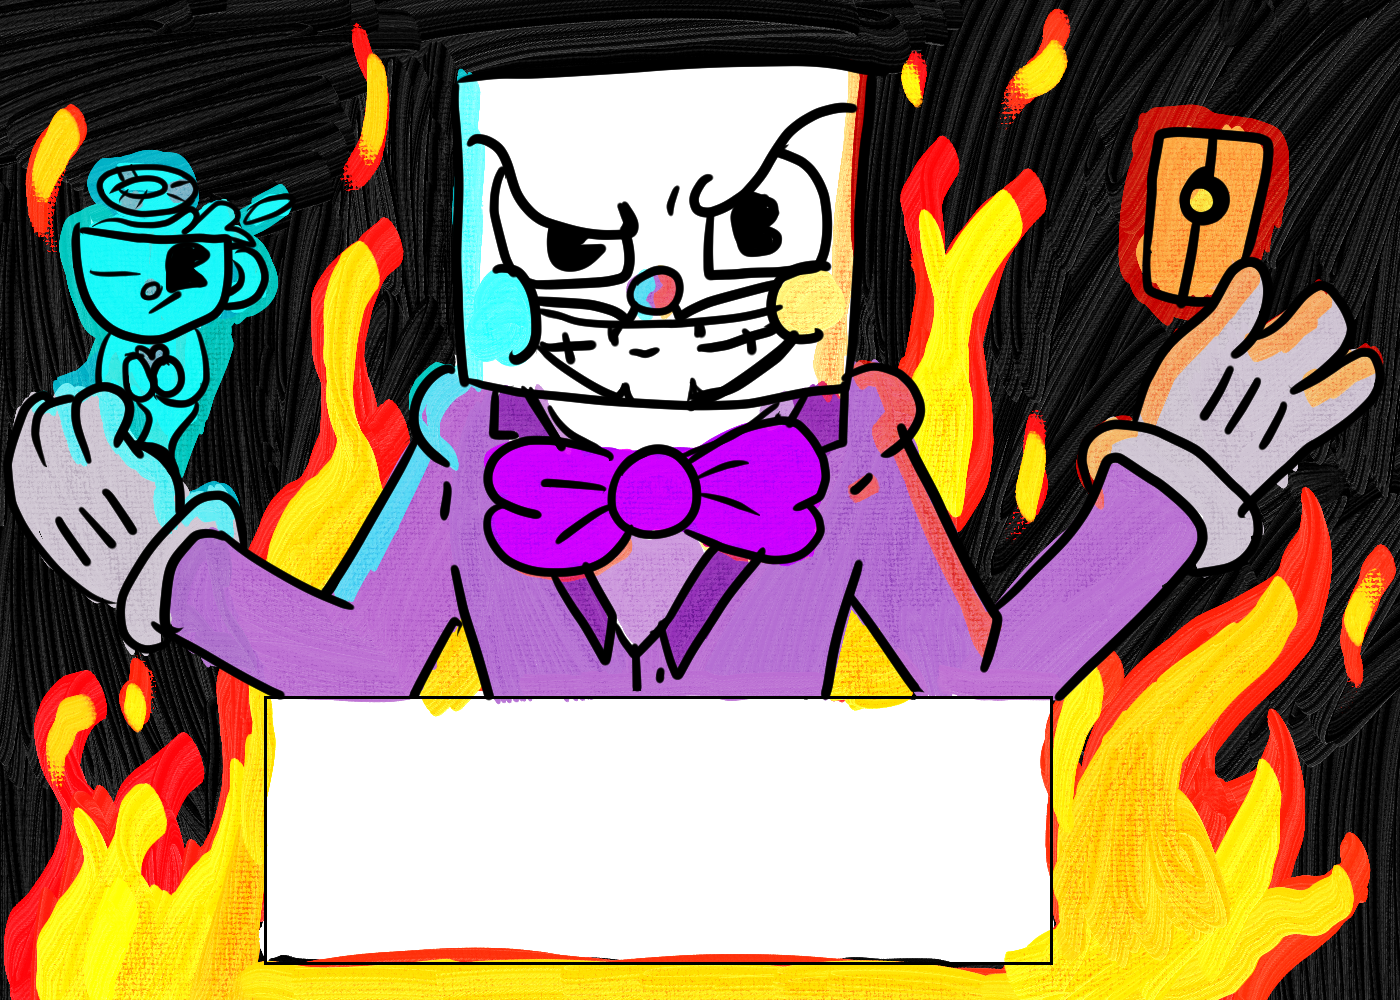
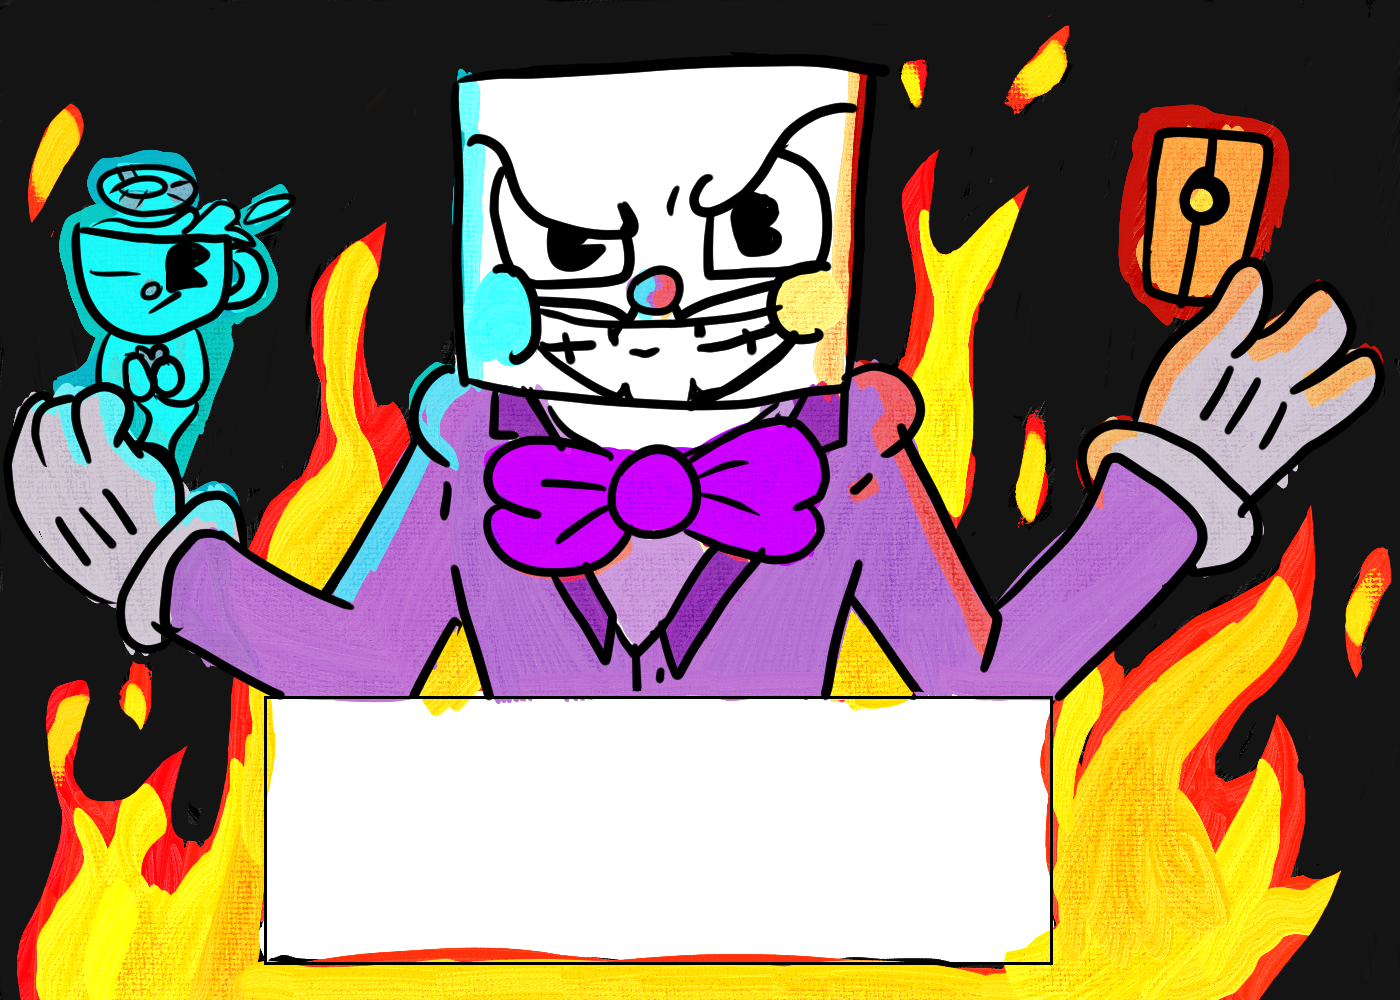
style: centered the background image

diff --git a/assets/css/style.css b/assets/css/style.css
@@ -29,8 +29,7 @@ a {
 }
 
 body {
-  height: 100vh;
-  background-image: url(../images/king-dice.png);
+  background-color: #141414;
 }
 
 header {
@@ -60,15 +59,20 @@ p {
 
 /* Game area styling */
 .game-wrapper {
+  background-color: #141414;
+  padding-top: 5%;
   display: flex;
   flex-flow: row nowrap;
   align-items: center;
+  width: 100vw;
+  height: 100vh;
+  background: url('../images/king-dice-large.webp') no-repeat center center;
 }
 
 #scores-area {
   width: 100%;
   position: absolute;
-  top: -15%;
+  top: -20%;
   display: flex;
   justify-content: space-around;
 }

diff --git a/index.html b/index.html
@@ -13,11 +13,11 @@
 </head>
 
 <body>
-    <header>
-        <h1>Demon Blackjack</h1>
-    </header>
 
     <section class='game-wrapper'>
+        <header>
+            <h1>Demon Blackjack</h1>
+        </header>
 
         <div id='game-area'>
             <div id='message-area'>
